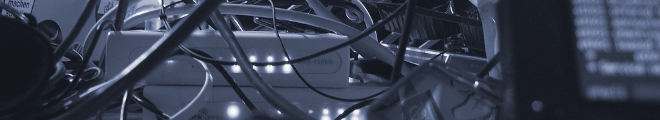
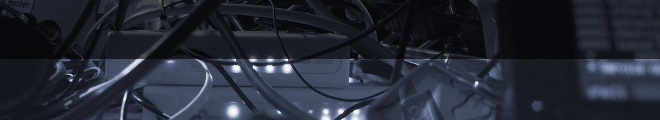
Pimp up the layout and fix some design issues

diff --git a/public/stylesheets/application.css b/public/stylesheets/application.css
@@ -1,7 +1,8 @@
 /**
- * Created: 25.05.2010
- * changed: 26.07.2010 (Correct paths and insert raki styles)
- * changed: 07.02.2011 (visited link color; changed header/footer id to html5 header/footer tags)
+ * 25.05.2010 (Initial creation)
+ * 26.07.2010 (Correct paths and insert raki styles)
+ * 07.02.2011 (visited link color; changed header/footer id to html5 header/footer tags)
+ * 23.06.2011 (Reorder teh cables and pimp up the content)
  *
  * Aaron Mueller <http://aaron-mueller.de/>
  * Ruben Mueller <http://purzwei.de/>
@@ -10,18 +11,21 @@
 body {
 	position: relative;
 	width: 910px;
-	left: 50px;
+	left: 10px;
 }
 
-img#cables {
+img#cables_ccc, img#cables {
 	position: absolute;
-	right: -155px;
-	top: 80px;
+	right: 30px;
+	top: 45px;
   z-index: 100;
+}
+img#cables {
+	right: -158px;
 }
 
 a#logo img {
-	margin: 30px 0 0 200px;
+	margin: 15px 0 0 25px;
 	display: block;
 	line-height: 0 !important; /* fix for blueprint overwrite */
 }
@@ -52,12 +56,16 @@ div#content {
 	div#content div.canvas {
 		margin: 0 30px 0 30px;
 		background-color: white;
+    position: relative;
 	}
 
 article {
 	width: 610px;
 	padding: 15px 25px 15px 0;
 	float: right;
+  position: relative;
+  display: block;
+  font: 1.1em helvetica,arial,freesans,clean;
 }
   article img {
     border: 1px solid #cfcfcf;
@@ -68,6 +76,50 @@ article {
   article img.right { float: right; margin-right: 0;}
   article img.center { display: block; margin-left: auto; margin-right: auto; }
   article img.left { float: left; margin-left: 0;}
+  
+  article a.active {
+    font-weight: bold;
+  }
+  h1#header_path {
+    color: #eee;
+    font-size: 2.3em;
+    position: absolute;
+    left: 210px;
+    top: 15px;
+  }
+  
+  article h1 {
+  
+  }
+  article h2 {
+    border-bottom: 1px solid #ccc;
+    margin-bottom: 7px;
+    font-size: 18px;
+  }
+  article h3 {
+    font-size: 16px;
+    font-weight: bold;
+  }
+  
+  article ul {
+    list-style-type: square;
+    margin: 0;
+  }
+  article ul li {
+    margin-bottom: 6px;
+  }
+  article ul {
+    margin-top: 10px;
+  }
+  article a, footer a {
+    color: #4183C4;
+  }
+  article a:link, footer a:link { text-decoration: none; }
+  article a:hover, article a:visited, footer a:hover {
+    text-decoration: underline;
+    color: #4183C4;
+  }
+
 
 nav#navigation {
 	background: transparent url(../images/navigation_bg.jpg) repeat-x;
@@ -130,22 +182,14 @@ nav#navigation {
 					padding: 12px 0 0 20px;
 				}
 
-div#content footer {
-	height: 25px;
+footer {
 	padding: 10px 55px 10px 245px;
 	font-size: .8em;
 	color: #888;
 	text-align: right;
 	background: transparent url(../images/footer_bg.png) no-repeat;
+  margin-bottom: 20px;
 }
-
-body > footer:last-child {
-  margin-top: 10px;
-  height: 45px;
-  font-size: .8em;
-  text-align: center;
-}
-
 
 #auth_username {
     margin-left: 40px !important;
@@ -155,8 +199,4 @@ body > footer:last-child {
 
 div#login {
   width: 250px;
-}
-
-a.active {
-    font-weight: bold;
 }

diff --git a/public/stylesheets/raki.css b/public/stylesheets/raki.css
@@ -25,6 +25,13 @@ nav#controls div a.active {
     background-color: #ffffff;
 }
 
+header a.inactive {
+  color: gray;
+}
+header a:hover {
+  text-decoration: underline;
+}
+
 div#controls_left {
     float: left;
 	margin-left: 1.5em;
@@ -281,16 +288,3 @@ table.diff td.add {
 table.diff td.remove {
 	background-color: #ffcccc;
 }
-
-
-
-
-
-
-
-
-
-
-
-
-
